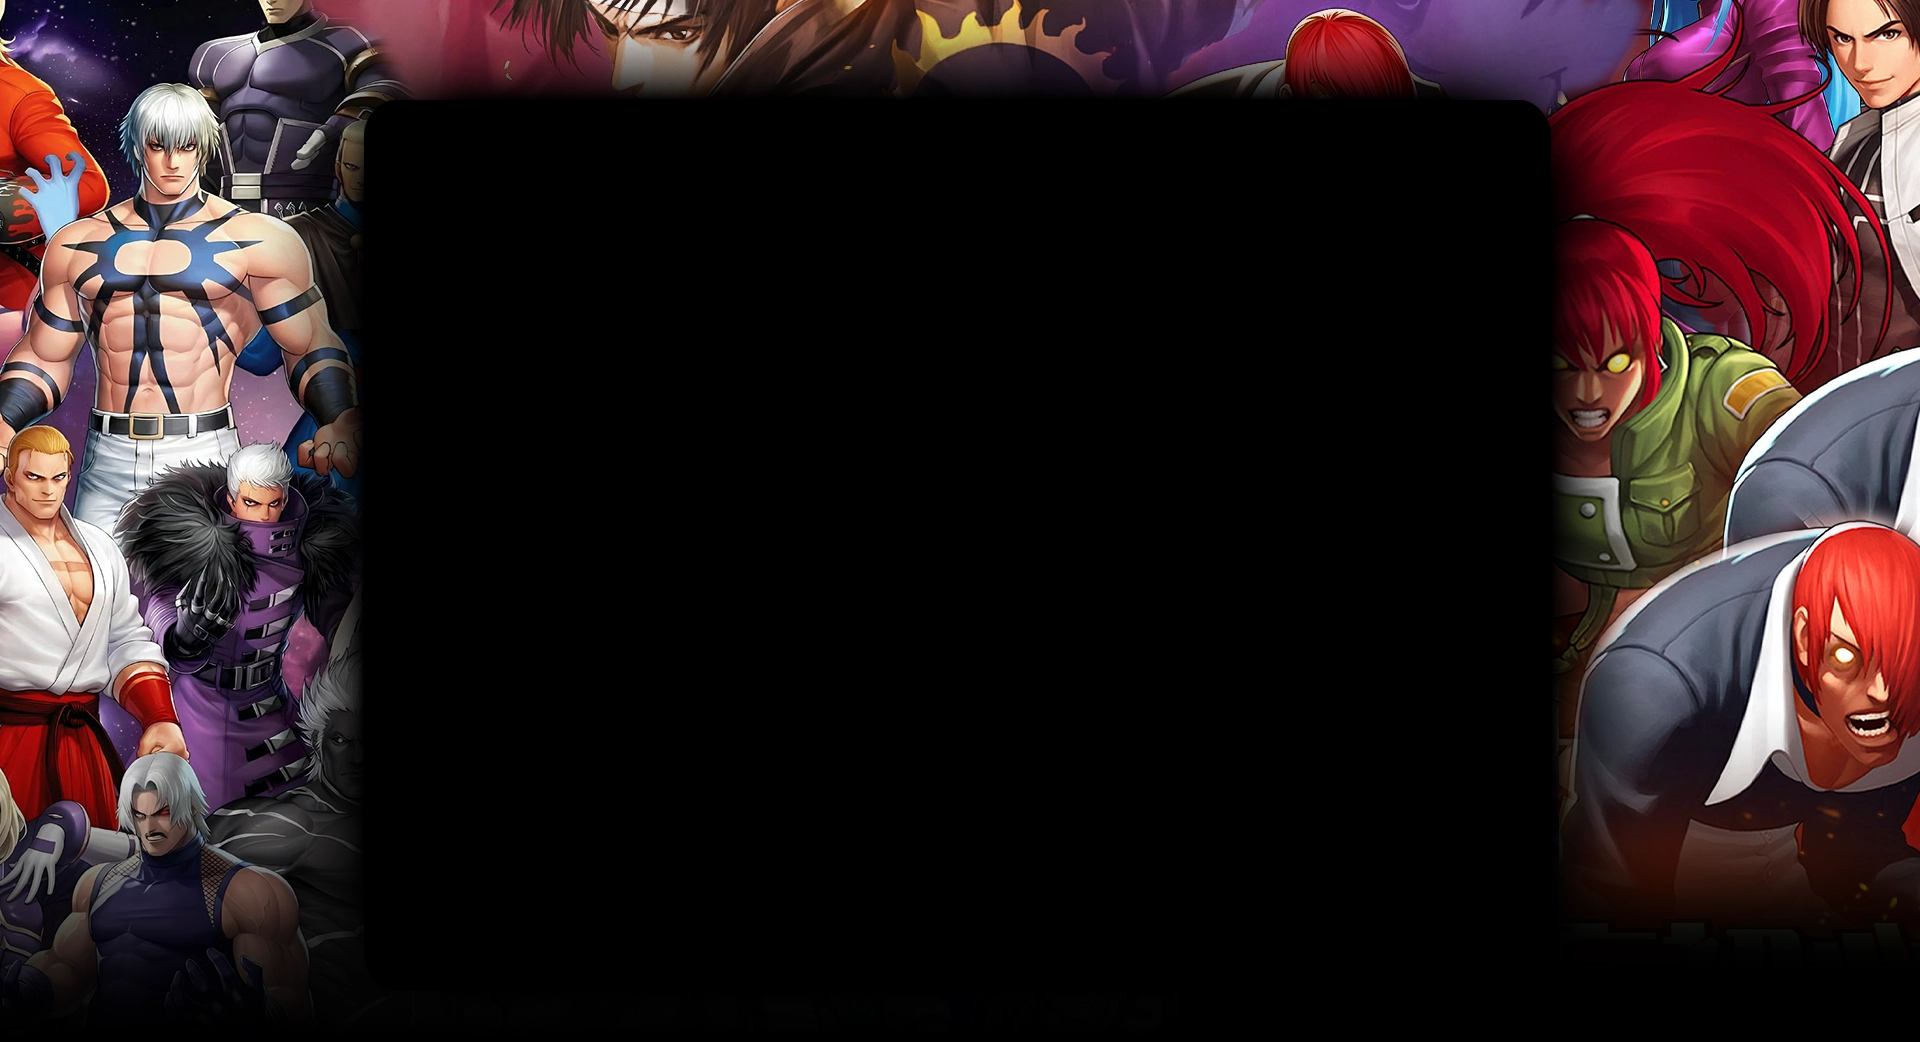
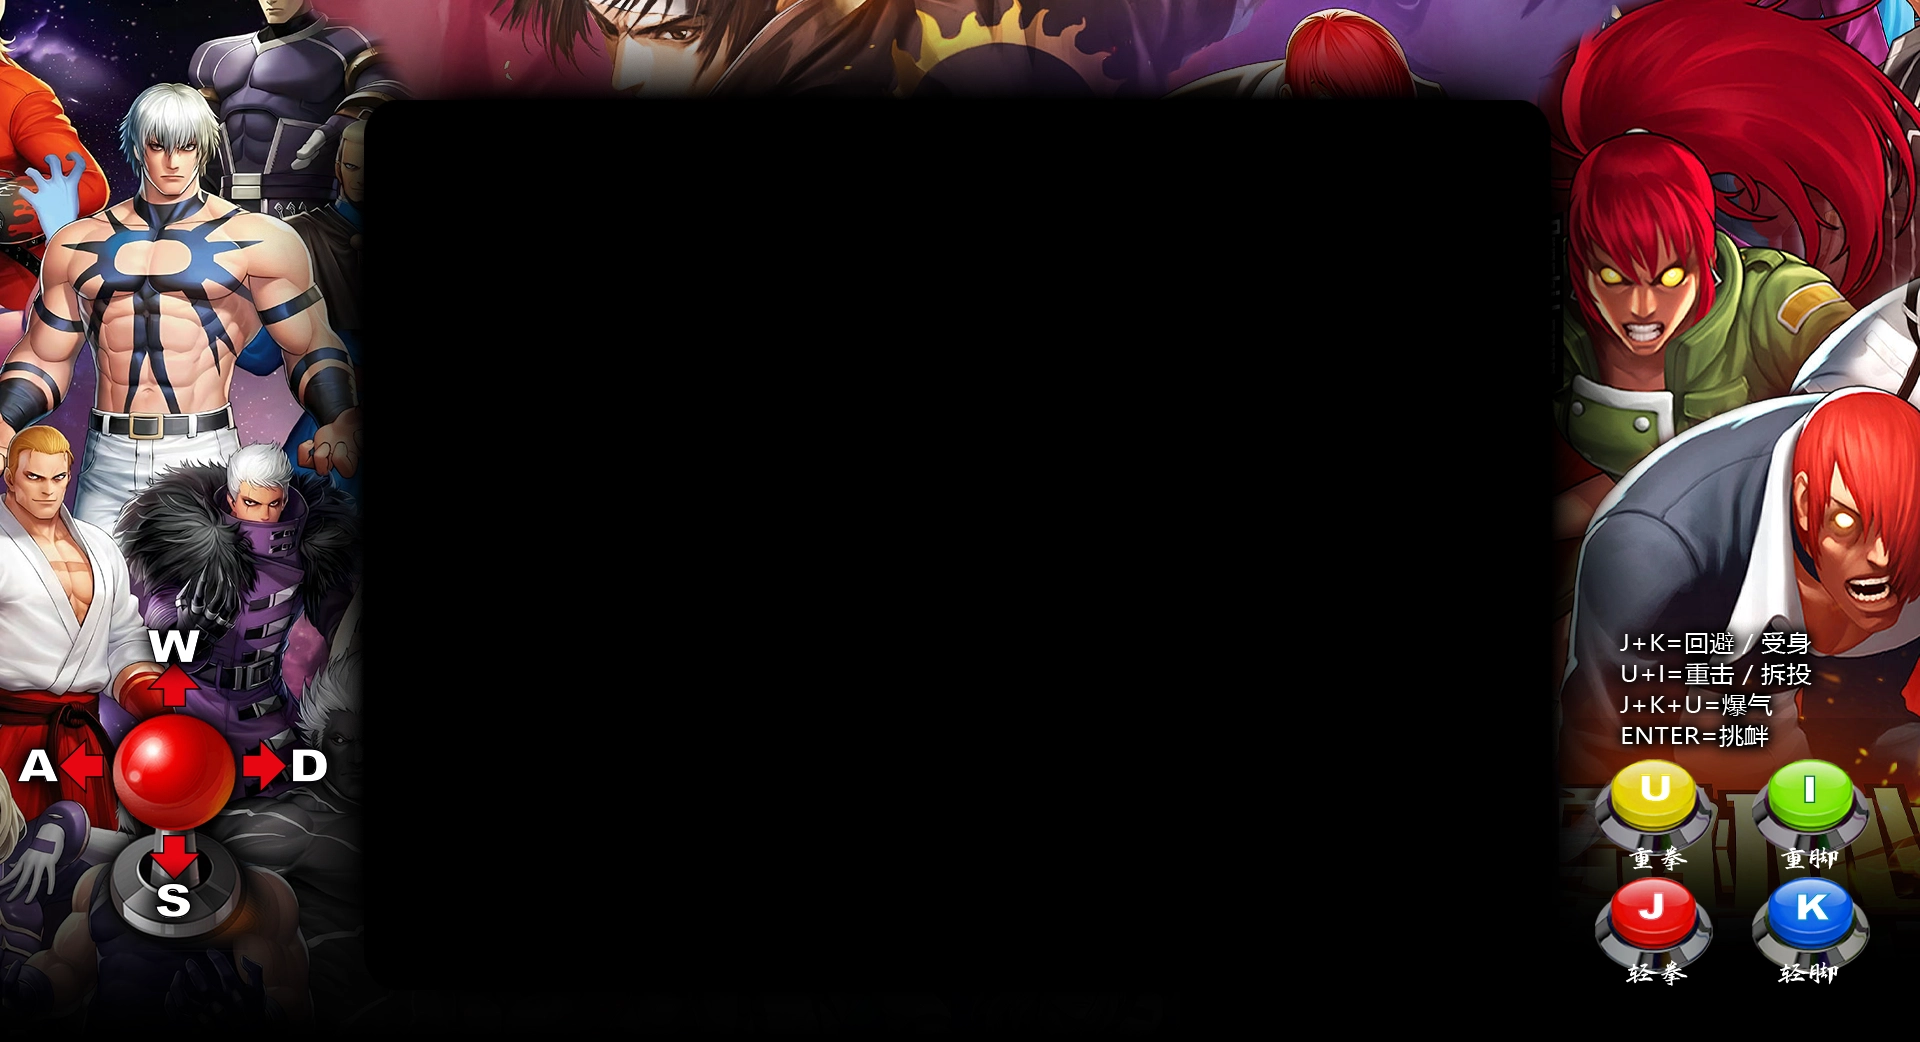
assets: refresh kof97 game backdrops

Changed region(s): [[0.7812, 0.0, 1.0, 0.952], [0.0, 0.5835, 0.1875, 0.9213]]

diff --git a/src/routes/$locale.games.$gameId.play.tsx b/src/routes/$locale.games.$gameId.play.tsx
@@ -491,7 +491,7 @@ function LocalizedPlayGamePage() {
           alt=""
           aria-hidden="true"
           className="kof97-page-backdrop"
-          src={isKof97Plus ? '/images/game-masks/kof97-plus.webp?v=20261019-1' : '/images/game-masks/kof97.webp?v=20261019-6'}
+          src={isKof97Plus ? '/images/game-masks/kof97-plus.webp?v=20261022-1' : '/images/game-masks/kof97.webp?v=20261022-1'}
         />
       ) : null}
       <div className="absolute left-2 top-2 z-30 flex items-center gap-2 sm:left-3 sm:top-3">
